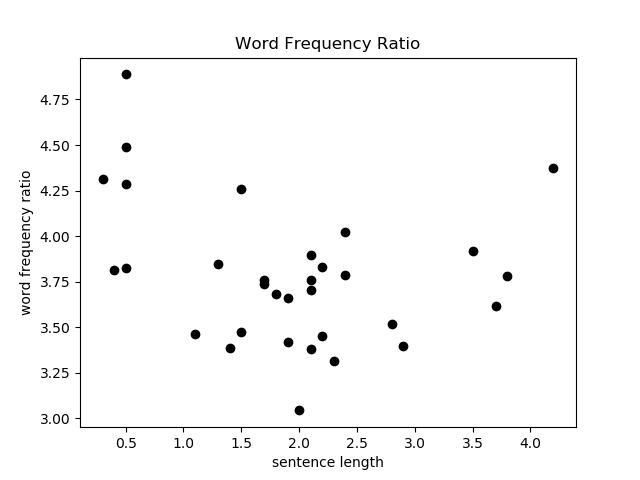
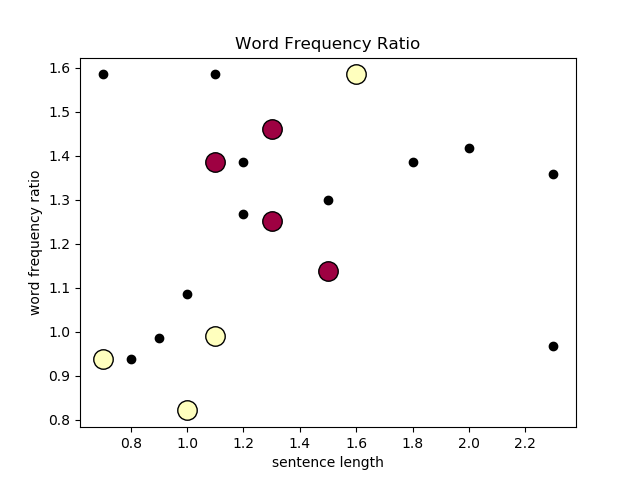
stop words removed for calculating word frequency ratio

diff --git a/app.py b/app.py
@@ -9,6 +9,8 @@ from sklearn.datasets import make_blobs
 from sklearn.preprocessing import StandardScaler
 from matplotlib import pyplot as plt
 from flask import Flask, render_template, request
+from nltk.corpus import stopwords
+import string
 app = Flask(__name__)
 app.config['SEND_FILE_MAX_AGE_DEFAULT'] = 0
 
@@ -66,12 +68,17 @@ def plagiarismDetection():
 
         featuresHeading=['sentence number ','PRON','.','word count','DET','word frequency ratio']
 
+        stop_words = set(stopwords.words('english')).union(string.punctuation)
+        print("stop words: ",stop_words)
+
         # word Frequency
         for row in tokens:
             wfs={}
             for word in row:
-                wordFrequency[word]=wordFrequency.get(word, 0) + 1
-                wfs[word]=wfs.get(word, 0)+1
+                word1=word.lower()
+                if word1 not in stop_words:
+                    wordFrequency[word1]=wordFrequency.get(word1, 0) + 1
+                    wfs[word1]=wfs.get(word1, 0)+1
             wordFrequencySentenceWise.append(wfs)
 
         print("wordFrequencySentenceWise: ", wordFrequencySentenceWise)
@@ -98,7 +105,7 @@ def plagiarismDetection():
             j=0
             for n in listOfPartsOfSpeechWithWords[i]:
                 checkFeature=n[1]
-                word=n[0]
+                word=n[0].lower()
             
                 #print(checkFeature)
                 for feature in featuresHeading:
@@ -109,9 +116,11 @@ def plagiarismDetection():
                     if(checkFeature==feature):
                         rowToAdd[j]+=1
                     j+=1
-
-                wfrs[word]= math.log2(maxFreq/(wordFrequency[word]-wordFrequencySentenceWise[i][word]+1))
-            meanwfrs = mean(wfrs[k] for k in wfrs)
+                if word not in stop_words:
+                    wfrs[word]= math.log2(maxFreq/(wordFrequency[word]-wordFrequencySentenceWise[i][word]+1))
+            if bool(wfrs):
+                meanwfrs = mean(wfrs[k] for k in wfrs)
+        
             wordFrequencyRatio.append(wfrs)
         
             rowToAdd[3]= wordCount[i]/10 
